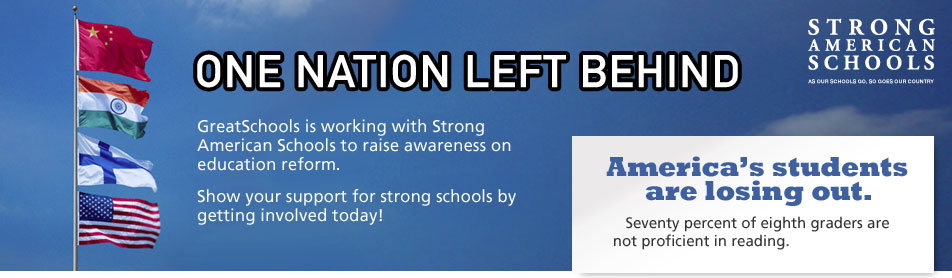
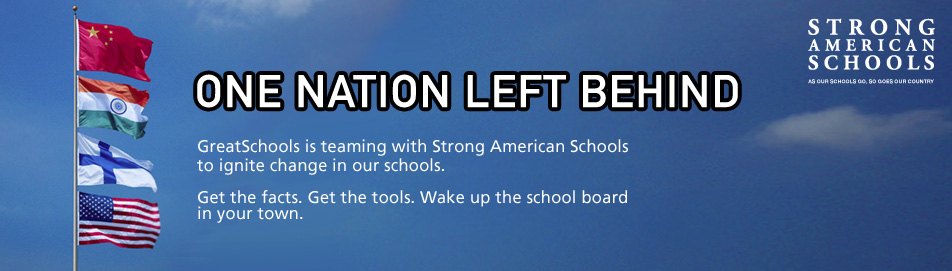
GS-6523 Update with new images

diff --git a/src/webapp/res/css/content/election2008.css b/src/webapp/res/css/content/election2008.css
@@ -28,32 +28,22 @@
 .hr.dotted {
     border-bottom: 2px dotted #CCCCCC;
     margin-right: 10px;
+    height: 10px;
 }
 
 .hr hr {
     display: none;
 }
 
-.hr.topDivider {
-    height: 3px;
-}
-
 .hr.middleDivider {
-    height: 10px;
     margin-right: 2px;
 }
 
 #contentTop {
     width: 952px;
-    height: 278px;
+    height: 271px;
     padding-top: 15px;
     position: relative;
-}
-
-#contentTop a img {
-    position: absolute;
-    bottom: 21px;
-    right: 50px;
 }
 
 #contentMiddle {
@@ -205,77 +195,6 @@ div.hot_topics {
     padding-left: 2px;
 }
 
-/*#contentGS .mainDivider {*/
-    /*position: absolute;*/
-    /*top: 328px;*/
-    /*left: 0;*/
-    /*margin: 0;*/
-    /*width: 952px;*/
-/*}*/
-
-/*#contentMiddle {*/
-    /*width: 547px;*/
-    /*height: 657px;*/
-    /*position: absolute;*/
-    /*top: 338px;*/
-    /*left: 0;*/
-/*}*/
-
-/*#contentRight {*/
-    /*position: absolute;*/
-    /*top: 338px;*/
-    /*right: 10px;*/
-    /*height: 657px;*/
-    /*width: 397px;*/
-/*}*/
-
-/*.contentMiddleModule {*/
-    /*width: 100%;*/
-    /*background-color: green;*/
-    /*margin: 0;*/
-    /*position: relative;*/
-/*}*/
-
-/*.upperBoxes {*/
-    /*height: 216px;*/
-/*}*/
-
-/*.hotTopics {*/
-    /*height: 263px;*/
-/*}*/
-
-/*.moduleBox {*/
-    /*width: 269px;*/
-    /*height: 216px;*/
-    /*background-color: yellow;*/
-/*}*/
-
-/*.contentMiddleModule .left {*/
-    /*position: absolute;*/
-    /*top: 0;*/
-    /*left: 0;*/
-/*}*/
-
-/*.contentMiddleModule .right {*/
-    /*position: absolute;*/
-    /*top: 0;*/
-    /*right: 0;*/
-/*}*/
-
-/*div.horizontalDividerLine {*/
-    /*height: 2px;*/
-    /*width: 100%;*/
-    /*margin: 8px 0;*/
-    /*background-color: #000000;*/
-/*}*/
-
-/*div#video {*/
-    /*width: 397px;*/
-    /*height: 329px;*/
-    /*background-color: #00FFFF;*/
-    /*margin-bottom: 10px;*/
-/*}*/
-
 /** Strong American Schools */
 .strongAmericanSchools {
     height: 155px;
@@ -330,12 +249,6 @@ div.toolkits {
     position: absolute;
     top: 20px;
     left: 20px;
-}
-
-.img_toolkits {
-    position: absolute;
-    top: 20px;
-    left: 159px
 }
 
 div.toolkits ul {
